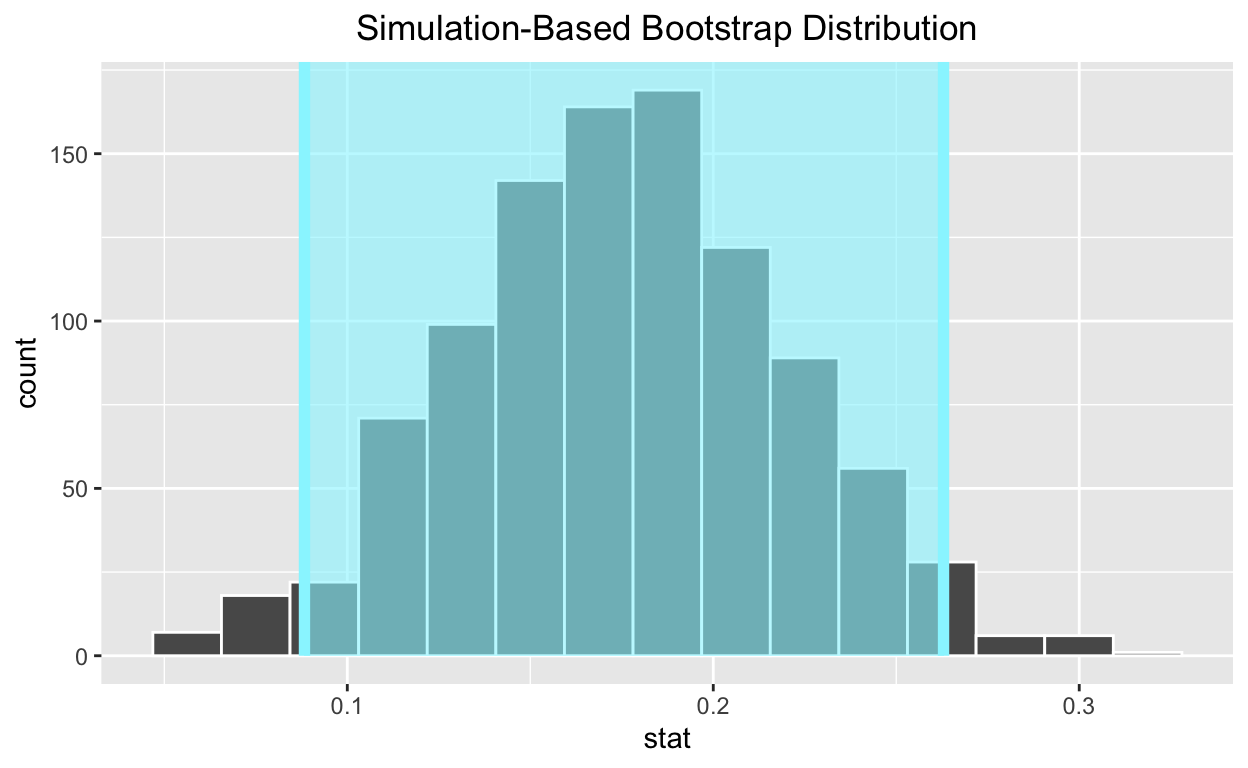
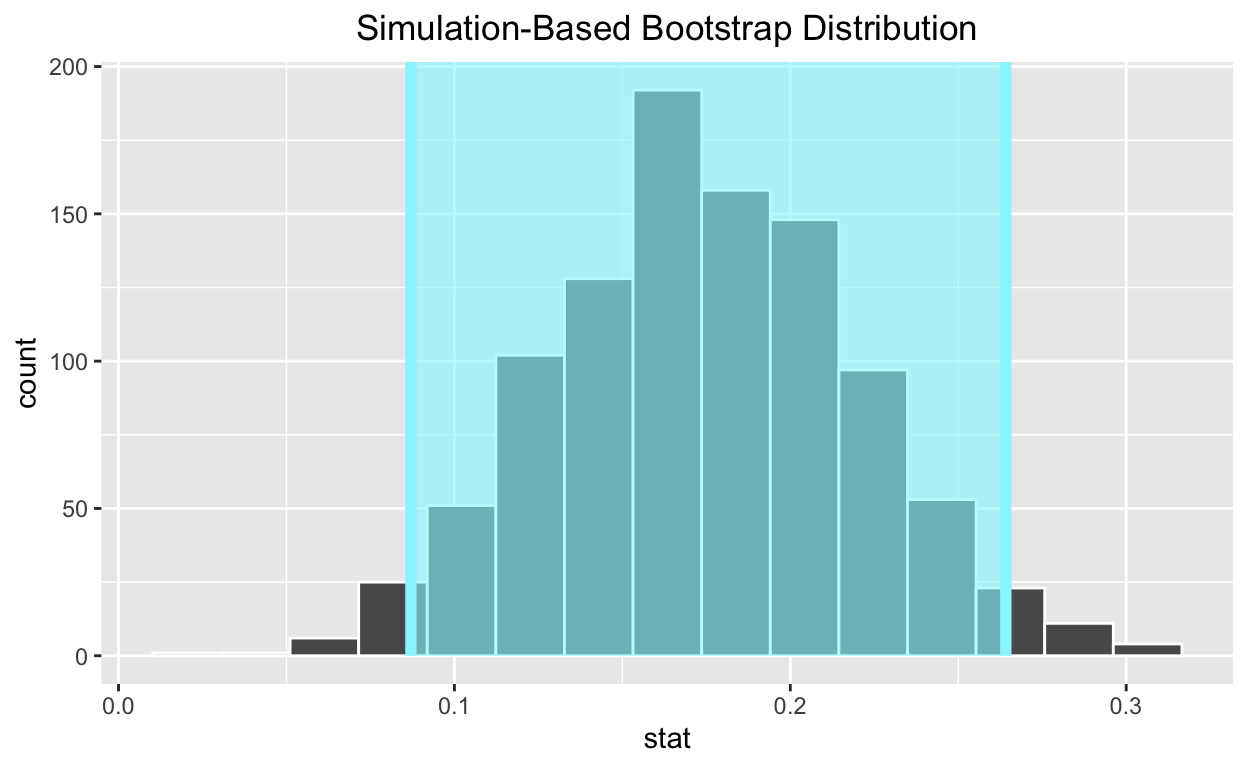
index.html

diff --git a/index.html b/index.html
@@ -1656,7 +1656,7 @@ Explanatory: habit_binary (numeric)
 <pre><code># A tibble: 1 × 1
   p_value
     &lt;dbl&gt;
-1   0.004</code></pre>
+1   0.001</code></pre>
 </div>
 <h4 id="interpretation-of-the-p-value-for-preemie">Interpretation of the P-Value for Preemie</h4>
 <p>The P value is 0.001. This is highly statistically significant and tells us that observing a correlation statistic of 0.1058123 or more extreme is very unlikely under the null hypothesis.Therefore, there is evidence to support the alternative hypothesis that there is positive correlation between smoking habits and the likelihood of premature birth, and we can reject the null hypothesis.</p>
@@ -1675,7 +1675,7 @@ Explanatory: habit_binary (numeric)
 <pre><code># A tibble: 1 × 2
   lower_ci upper_ci
      &lt;dbl&gt;    &lt;dbl&gt;
-1   0.0281    0.184</code></pre>
+1   0.0306    0.181</code></pre>
 </div>
 <div class="layout-chunk" data-layout="l-body">
 <div class="sourceCode">
@@ -1858,7 +1858,7 @@ Explanatory: habit_binary (numeric)
 <pre><code># A tibble: 1 × 2
   lower_ci upper_ci
      &lt;dbl&gt;    &lt;dbl&gt;
-1   0.0883    0.263</code></pre>
+1   0.0870    0.264</code></pre>
 </div>
 <div class="layout-chunk" data-layout="l-body">
 <div class="sourceCode">
